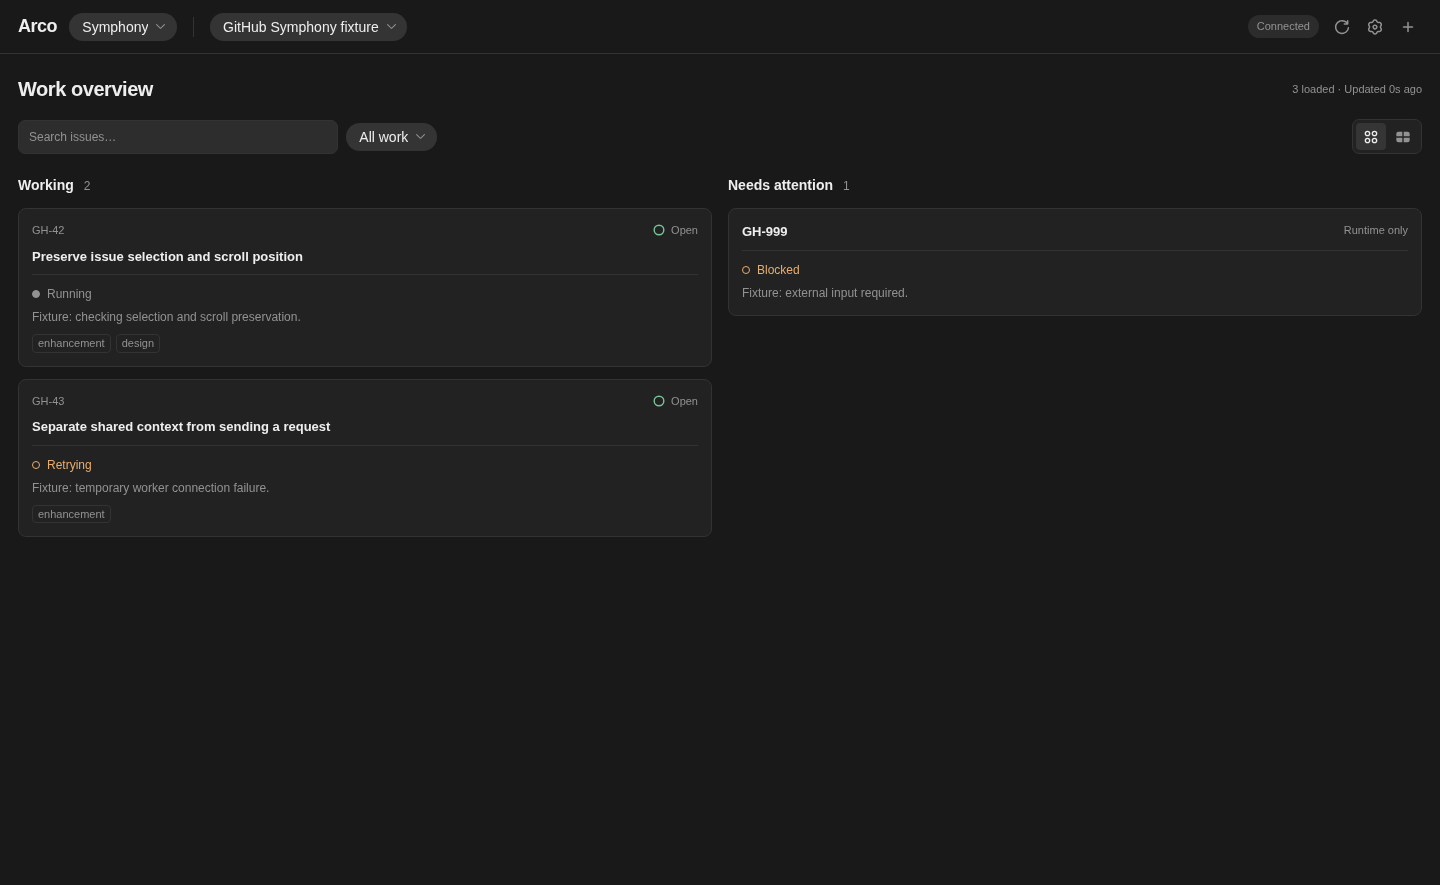
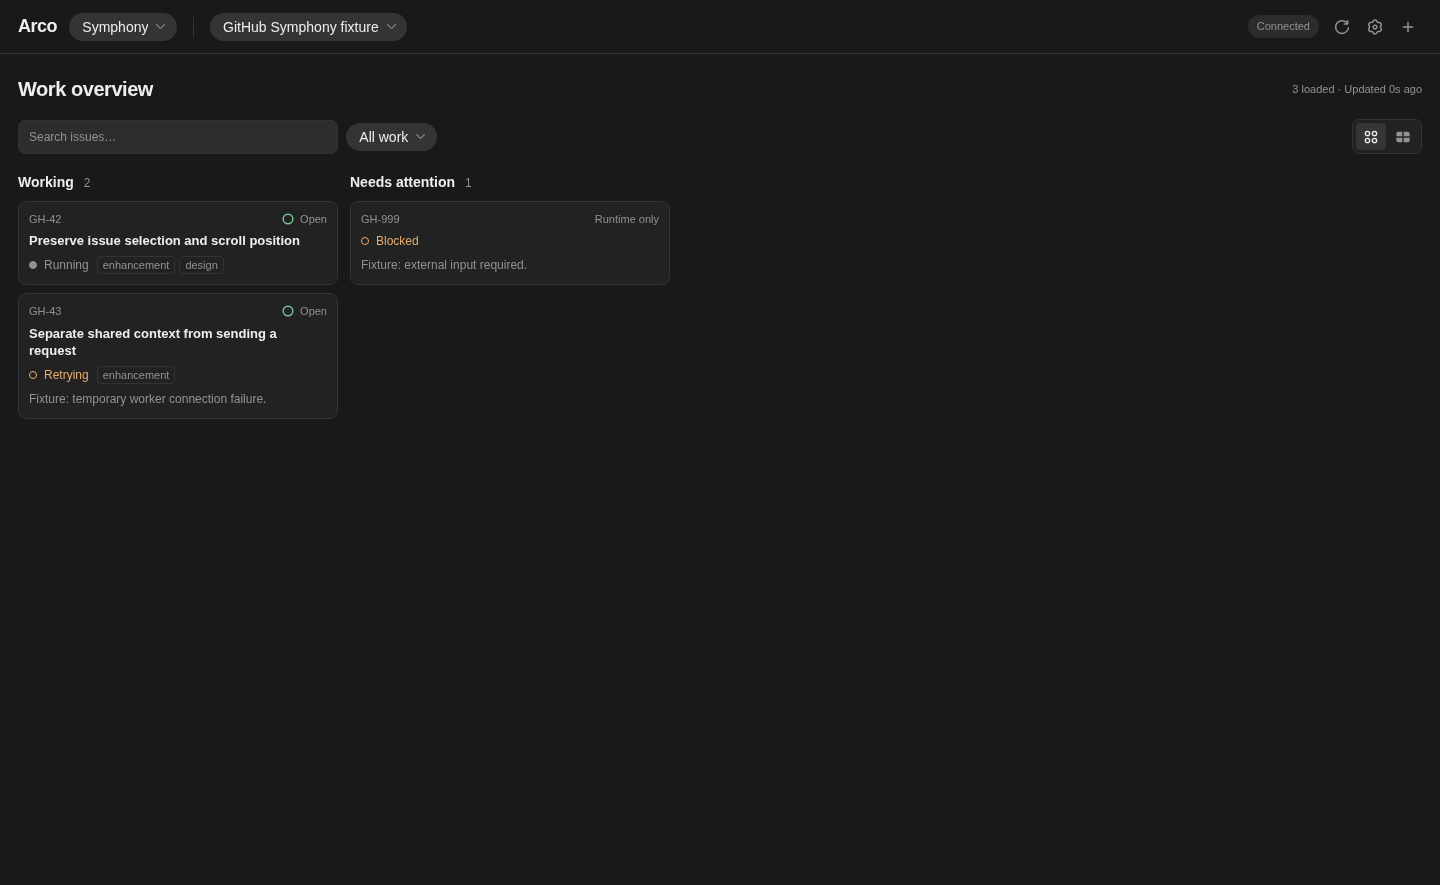
refactor: make Symphony board cards compact and bounded

diff --git a/src/ui/symphony.css b/src/ui/symphony.css
@@ -136,16 +136,18 @@
   text-align: left;
 }
 .symphony-board {
-  display: grid;
-  grid-template-columns: repeat(auto-fit, minmax(min(100%, 240px), 1fr));
-  gap: 16px;
-  align-items: start;
+  display: flex;
+  flex-wrap: wrap;
+  gap: 12px;
+  align-items: flex-start;
 }
 .symphony-board-column {
+  flex: 0 1 320px;
+  max-width: 100%;
   min-width: 0;
 }
 .symphony-column-heading {
-  padding: 3px 0 12px;
+  padding-bottom: 8px;
 }
 .symphony-column-heading h2 {
   font-size: 14px;
@@ -161,9 +163,9 @@
   display: flex;
   flex-direction: column;
   align-items: stretch;
-  gap: 8px;
-  padding: 13px;
-  margin-bottom: 12px;
+  gap: 6px;
+  padding: 10px;
+  margin-bottom: 8px;
   text-align: left;
   color: var(--arco-text);
   background: var(--arco-sidebar);
@@ -179,21 +181,25 @@
 }
 .symphony-work-card > strong {
   font-weight: 550;
-  line-height: 1.5;
+  line-height: 1.35;
   overflow-wrap: anywhere;
 }
 .symphony-card-kicker {
   display: flex;
   justify-content: space-between;
   flex-wrap: wrap;
-  gap: 6px;
+  gap: 4px;
   color: var(--arco-muted);
   font-size: 11px;
+  line-height: 1.3;
 }
-.symphony-card-kicker > strong {
-  font-size: 13px;
-  color: var(--arco-text);
-  font-weight: 550;
+.symphony-card-kicker > * {
+  min-width: 0;
+  overflow-wrap: anywhere;
+}
+.symphony-card-kicker .symphony-native-state {
+  max-width: 100%;
+  white-space: normal;
 }
 .symphony-native-state {
   display: inline-flex;
@@ -213,10 +219,16 @@
   overflow-wrap: anywhere;
 }
 .symphony-card-runtime {
-  padding-top: 10px;
-  border-top: 1px solid var(--arco-border);
-  display: grid;
-  gap: 5px;
+  display: flex;
+  flex-wrap: wrap;
+  align-items: center;
+  gap: 4px 8px;
+}
+.symphony-card-runtime .row-labels {
+  max-width: 100%;
+  min-width: 0;
+  flex-wrap: wrap;
+  gap: 4px;
 }
 .symphony-runtime-status {
   display: inline-flex;
@@ -423,14 +435,6 @@
   overflow-wrap: anywhere;
 }
 @media (max-width: 1100px) {
-  .symphony-work-area.has-detail .symphony-board {
-    grid-template-columns: minmax(210px, 1fr);
-  }
-  .symphony-work-area.has-detail .symphony-board-column {
-    border-right: 0;
-    padding-right: 0;
-    min-height: 0;
-  }
   .symphony-work-details {
     flex-basis: 320px;
     width: 320px;
@@ -459,14 +463,6 @@
   }
   .symphony-overview-heading h1 {
     font-size: 20px;
-  }
-  .symphony-board {
-    grid-template-columns: minmax(0, 1fr);
-  }
-  .symphony-board-column {
-    min-height: 0;
-    padding-right: 0;
-    border-right: 0;
   }
   .symphony-work-area.has-detail .symphony-overview {
     display: none;

diff --git a/src/ui/SymphonyWorkspace.tsx b/src/ui/SymphonyWorkspace.tsx
@@ -99,6 +99,15 @@ function WorkCard({
   selected: boolean;
   onSelect: () => void;
 }) {
+  const runtime = item.runtime;
+  const reason =
+    runtime?.error ??
+    (runtime && runtime.runtimeStatus !== "running"
+      ? (runtime.lastMessage ??
+        (runtime.retryAttempt !== null
+          ? `Attempt ${runtime.retryAttempt}`
+          : null))
+      : null);
   return (
     <button
       type="button"
@@ -109,33 +118,21 @@ function WorkCard({
       onClick={onSelect}
     >
       <span className="symphony-card-kicker">
-        {item.title !== item.identifier ? (
-          <span>{item.identifier}</span>
-        ) : (
-          <strong>{item.identifier}</strong>
-        )}
+        <span>{item.identifier}</span>
         <NativeState item={item} />
       </span>
       {item.title !== item.identifier && <strong>{item.title}</strong>}
       <span className="symphony-card-runtime">
         <SymphonyRuntimeStatus item={item} />
-        {item.runtime && (
-          <span className="symphony-card-reason">
-            {item.runtime.error ??
-              item.runtime.lastMessage ??
-              (item.runtime.retryAttempt !== null
-                ? `Attempt ${item.runtime.retryAttempt}`
-                : "")}
+        {item.issue?.source === "github" && item.issue.labels.length > 0 && (
+          <span className="row-labels">
+            {item.issue.labels.slice(0, 3).map((label) => (
+              <span key={label.id}>{label.name}</span>
+            ))}
           </span>
         )}
       </span>
-      {item.issue?.source === "github" && item.issue.labels.length > 0 && (
-        <span className="row-labels">
-          {item.issue.labels.slice(0, 3).map((label) => (
-            <span key={label.id}>{label.name}</span>
-          ))}
-        </span>
-      )}
+      {reason && <span className="symphony-card-reason">{reason}</span>}
     </button>
   );
 }
